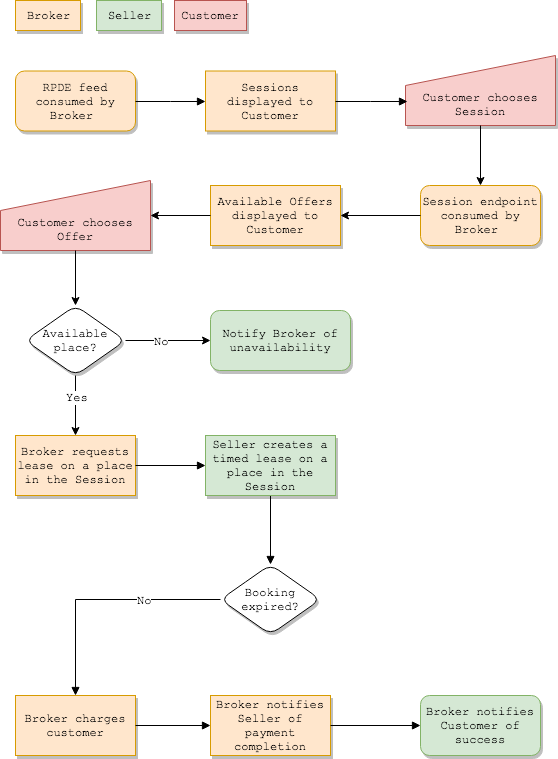
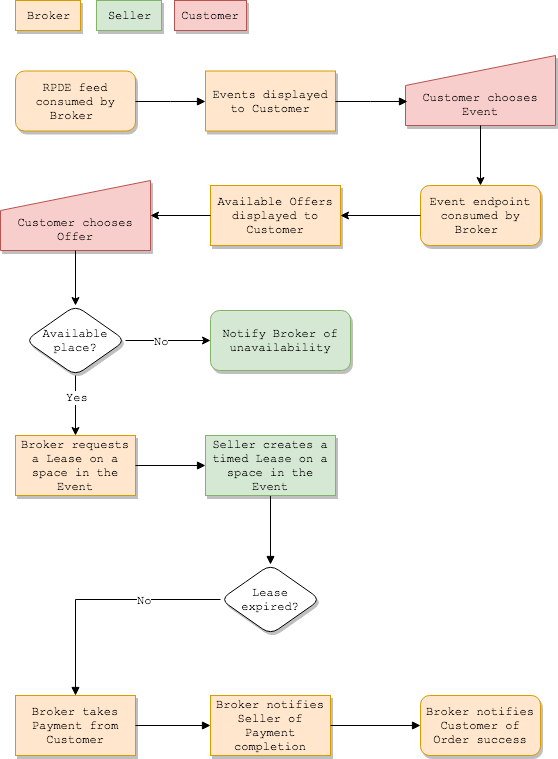
Updates for 0.6

diff --git a/EditorsDraft/index.html b/EditorsDraft/index.html
@@ -3,7 +3,7 @@
 
 <head>
     <meta charset='utf-8' />
-    <title>Open Booking API 0.5</title>
+    <title>Open Booking API 0.6</title>
 
     <script type="text/javascript" class='remove'>
         var respecConfig = {
@@ -58,7 +58,7 @@
                 href: "https://github.com/openactive/open-booking-api/issues/"
             }, {
                 key: "Version",
-                value: "0.5"
+                value: "0.6"
             }],
 
             logos: [{
@@ -253,10 +253,10 @@ pull requests. The source code is available
 on [GitHub](https://github.com/openactive/open-booking-api).
 
         <div class="note">
-This document represents an early Editors Draft of the planned API design. It is 
+This document represents an early Editors Draft of the planned API design. It is
 likely to change between now and its final version. These
-early drafts are intended to help developers provide that feedback by developing 
-proof-of-concept implementations. We encourage developers to explore this API and 
+early drafts are intended to help developers provide that feedback by developing
+proof-of-concept implementations. We encourage developers to explore this API and
 contribute to the development of the specification.
         </div>
 
@@ -534,9 +534,9 @@ as RDPE in an Open Active compliant **booking system**.
 
 ## Step-by-step process description
 
-The 0.5 version of the Booking API supports single items per **order** and
+The 0.5, and higher, versions of the Booking API supports single items per **order** and
 single **payments** per **order**. Future versions of the specification may support
-multiple items and multipart **payments**.
+multiple items and multipart **payments**, 0.6 still does not.
 
 ### Complete transaction
 
@@ -605,7 +605,7 @@ deemed to be cancelled.
 If the **customer** no longer wants to proceed with a particular **offer**, the
 lease for the space in the **event** and the **order** may be cancelled by
 issuing a DELETE request to the specific order endpoint (/orders/123 in the
-example) of the **booking system**. 
+example) of the **booking system**.
 
 The **booking system** SHOULD release the
 space in the **event** and delete the underlying resource. Any subsequent
@@ -616,7 +616,7 @@ requests to this resource should result in a 404 response.
 If the lease has expired during the **payment** process, the **broker** SHOULD
 check whether the **event** is still bookable and if the selected **offer** is
 still available. If they are, the **broker** should create a new **order** using
-the workflow described above. 
+the workflow described above.
 
 The **booking system** should respond to requests
 for **orders** with an expired lease with a 410 status code with an error
@@ -650,8 +650,26 @@ application/vnd.openactive[.version]+json
 The current media type is:
 
 ```
-application/vnd.openactive.0.5+json
+application/vnd.openactive.0.6+json
 ```
+
+**Brokers specifying a media type without a version, such as:
+
+```
+application/vnd.openactive+json
+```
+
+will recieve data in in the most current format which is 0.6.
+
+If you are building an application as a **broker** and care about the stability
+of the response, or have a client application which is tied to a specific
+version you should always try to use a media type containing the version number.
+
+**Booking systems** are not obliged to support previous versions of the
+specification, and so may not support a specific version number. We anticipate
+that when the Booking API reaches the stability of a 1.0 version that this
+advice may change.
+
 
 ## Response formats
 
@@ -691,7 +709,7 @@ An example is below:
           "target": {
             "type": "EntryPoint",
             "url": "https://example.com/orders",
-            "encodingType": "application/vnd.openactive.v0.5+json",
+            "encodingType": "application/vnd.openactive.v0.6+json",
             "httpMethod": "PATCH"
           }
         }
@@ -719,7 +737,7 @@ Error responses MUST be served using an appropriate HTTP 4XX status code or HTTP
 5XX status code.
 
 All error responses from this API MUST be returned in a JSON-LD format using a
-content type of `application/vnd.openactive.v0.5+json` and include at least one
+content type of `application/vnd.openactive.v0.6+json` and include at least one
 Error object. The error handling has in the Booking API has been modelled
 closely on [[!RFC7807]].
 
@@ -917,6 +935,23 @@ created by a specific **broker** SHOULD NOT be able to be changed by any other
 subsequent requests to an **order** should only be initiated by the **broker**
 which created the **order**.
 
+## Delivery of terms and conditions
+
+The **broker** should make the **customer** aware of and assent to any specific
+Terms and Conditions and Privacy Policy for using their service at the point of
+a **customer** signing up to the service and/or providing their contact details.
+
+Since, during **booking**, the details of the **customer** are provided to the
+**booking system** and the **seller**, the **broker** should inform the
+**customer** of this any implications with resepct to GDPR and any other
+data protection legislation.
+
+Any specific Terms and Conditions for the **offer** being taken, or Terms and
+Conditions relating to the **seller** should be made available via a URL as a
+`termsOfService` property on the **offer**. (https://pending.schema.org/termsOfService)
+
+
+
     </section>
 
     <section class="normative">
@@ -1003,13 +1038,13 @@ are still available before proceeding with booking.
 GET /events/452 HTTP/1.1
 Host: example.com
 Date: Tue, 07 Jun 2018 20:51:35 GMT
-Accept: application/vnd.openactive.v0.5+json
+Accept: application/vnd.openactive.v0.6+json
         </pre>
 
         <pre class="example" title="Event response">
 HTTP/1.1 200 OK
 Date: Tue, 07 Jun 2018 20:51:36 GMT
-Content-Type: application/vnd.openactive.v0.5+json
+Content-Type: application/vnd.openactive.v0.6+json
 Content-Length: ...
 
 
@@ -1112,8 +1147,18 @@ the customer.
 
 ## Creating and updating orders
 
-Booking systems MUST expose an orders endpoint, e.g. `/orders` to allow brokers
-to initiate the booking workflow.
+**Booking systems** MUST expose an **orders** endpoint, e.g. `/orders` to allow
+**brokers** to initiate the **booking** workflow.
+
+**Orders** initiated by a specific **broker** SHOULD only be able to be updated
+by the same **broker**. For the purpose of creating and updating an **order**
+the only reliable mechanism for ensuring that the **broker** is the same across
+requests is via authentication/identification by API keys or Authoriztion
+headers. The **broker** property within the **order** is for information only.
+
+It is the responsibility of the **booking system** to ensure that only the
+**broker** which created the **order** can update, complete and cancel an
+order.
 
 ### Discovering the order endpoint
 
@@ -1142,7 +1187,7 @@ An example is below:
           "target": {
             "type": "EntryPoint",
             "url": "https://example.com/orders",
-            "encodingType": "application/vnd.openactive.v0.5+json",
+            "encodingType": "application/vnd.openactive.v0.6+json",
             "httpMethod": "POST"
           }
         }
@@ -1198,7 +1243,7 @@ process), the `broker` property should contain the details of the end-user
 POST /orders HTTP/1.1
 Host: example.com
 Date: Tue, 07 Jun 2018 20:51:35 GMT
-Accept: application/vnd.openactive.v0.5+json
+Accept: application/vnd.openactive.v0.6+json
 
 {
 	"@context": "https://openactive.io/ns/oa.jsonld",
@@ -1240,7 +1285,7 @@ If successful the server will response with the location of a newly created
         <pre class="example" title="Creating an order - response">
 HTTP/1.1 201 Created
 Date: Tue, 07 Jun 2018 20:51:36 GMT
-Content-Type: application/vnd.openactive.v0.5+json
+Content-Type: application/vnd.openactive.v0.6+json
 Location: /orders/123
 
 {
@@ -1267,7 +1312,7 @@ Location: /orders/123
       "target": {
         "type": "EntryPoint",
         "url": "https://example.com/orders/123",
-        "encodingType": "application/vnd.openactive.v0.5+json",
+        "encodingType": "application/vnd.openactive.v0.6+json",
         "httpMethod": "PATCH"
       }
     }
@@ -1301,13 +1346,13 @@ To get the latest state of an order, perform a GET request on its URI.
 GET /orders/123 HTTP/1.1
 Host: example.com
 Date: Tue, 07 Jun 2018 20:51:35 GMT
-Accept: application/vnd.openactive.v0.5+json
+Accept: application/vnd.openactive.v0.6+json
     </pre>
 
     <pre class="example" title="Viewing an order - response">
 HTTP/1.1 200 Created
 Date: Tue, 07 Jun 2018 20:51:36 GMT
-Content-Type: application/vnd.openactive.v0.5+json
+Content-Type: application/vnd.openactive.v0.6+json
 Content-Length: ...
 
 {
@@ -1363,7 +1408,7 @@ Content-Length: ...
       "target": {
         "type": "EntryPoint",
         "url": "https://example.com/orders/123",
-        "encodingType": "application/vnd.openactive.v0.5+json",
+        "encodingType": "application/vnd.openactive.v0.6+json",
         "httpMethod": "PATCH"
       }
     },
@@ -1373,7 +1418,7 @@ Content-Length: ...
       "target": {
         "type": "EntryPoint",
         "url": "https://example.com/orders/123",
-        "encodingType": "application/vnd.openactive.v0.5+json",
+        "encodingType": "application/vnd.openactive.v0.6+json",
         "httpMethod": "PATCH"
       }
     }
@@ -1411,7 +1456,7 @@ returns a representation of the completed **order** with a 200 status code.
 PATCH /orders/123 HTTP/1.1
 Host: example.com
 Date: Tue, 07 Jun 2018 20:51:35 GMT
-Accept: application/vnd.openactive.v0.5+json
+Accept: application/vnd.openactive.v0.6+json
 
 {
   "type": "Order",
@@ -1434,7 +1479,7 @@ Accept: application/vnd.openactive.v0.5+json
 <pre class="example" title="Completing an order - response">
 HTTP/1.1 200 OK
 Date: Tue, 07 Jun 2018 20:51:36 GMT
-Content-Type: application/vnd.openactive.v0.5+json
+Content-Type: application/vnd.openactive.v0.6+json
 Content-Length: ...
 
 {
@@ -1498,7 +1543,7 @@ Content-Length: ...
 		"target": {
 			"type": "EntryPoint",
 			"url": "https://example.com/orders/535",
-			"encodingType": "application/vnd.openactive.v0.5+json",
+			"encodingType": "application/vnd.openactive.v0.6+json",
 			"httpMethod": "PATCH"
 		}
 	}]
@@ -1506,21 +1551,57 @@ Content-Length: ...
 
     </pre>
 
+## Ordering a place at a free event
+
+Free **events** MUST follow the same workflow as paid **events**. A free
+**event** is technically a free **offer** on a space for an event. There MUST be
+at least one **offer** with a `price` property of "0.00". The `priceCurrency`
+MUST still be defined for data consistency and completeness.
+
+The **order** workflow MUST be followed as described for **offers** with a
+payment. The PATCH to the URL defined in `PayAction` should follow the example
+shown below.
+
+**Orders** for a free place at an **event** are the only current scenario in the
+Booking API specification where a `Payment` object has `paymentMethod` and
+`paymentMethodId` as optional properties.
+
+<pre class="example" title="Completing an free order with a payment of '0.00' - request">
+PATCH /orders/123 HTTP/1.1
+Host: example.com
+Date: Tue, 07 Jun 2018 20:51:35 GMT
+Accept: application/vnd.openactive.v0.6+json
+
+{
+"type": "Order",
+"payments": [
+{
+  "type": "Payment",
+  "totalPaidToProvider": {
+    "type": "MonetaryAmount",
+    "value": "0.00",
+    "currency": "GBP"
+  }
+}
+]
+}
+
+</pre>
 
 ## Leases and the orderLeaseDuration property
 
 If the lease expires during **payment**, the **broker** MAY delete the **order**
 (if the **booking system** has not already done so, returning a response with a
-410 status code). 
+410 status code).
 
 The **broker** should then create a new **order** for the
-**customer** in order to generate a new lease. 
+**customer** in order to generate a new lease.
 
 Before creating a new order, the **broker** MUST check the **event** and **offers** to ensure
 that a space still exists within the **event** and that the **offer** selected
-by the **customer** is still valid. 
+by the **customer** is still valid.
 
-If no space exists or the **offer** is now invalid, the **customer** 
+If no space exists or the **offer** is now invalid, the **customer**
 should be refunded if payment has been taken.
 
 
@@ -1573,8 +1654,22 @@ the space at the **event** has been booked on their behalf.
 
 ### Refunding a customer and cancelling an order
 
-<div class="issue" title="Cancelling an order needs documenting" data-number="47">
-</div>
+Refunds and cancellations are a responsibility of the **broker** who is the
+party in the system in a position to process a refund for the **customer** with
+the third-party payments system.
+
+The **broker** should initiate a refund with the third-party payment provider.
+The refund process should be considered to be asynchronous for the purposes of
+this specification.
+
+After initiating a refund, the **broker** should cancel the
+**order** by submitting a PATCH request to the URL defined in the `CancelAction`
+prescribed in the `potentialAction` property of the **order** response.
+
+The process of cancellation is documented in Section 5.5.2
+
+<!--div class="issue" title="Cancelling an order needs documenting" data-number="47">
+</div -->
 
 ## Customers
 
@@ -1605,11 +1700,11 @@ creation process.
 
 # Future versions of this API
 
-Version 0.5 of the API is a stepping stone towards the 1.0 specification of the
-Booking API. It is not yet feature complete and there are some requirements
-which are not satisfied by version 0.5.
+Version 0.5 of the API was a stepping stone towards the 1.0 specification of the
+Booking API. Neither it, or 0.6, are yet feature complete and there are some requirements
+which are not satisfied by this version.
 
-Some of the patterns within version 0.5, for example the PATCHing of an order
+Some of the patterns within version 0.5 and higher, for example the PATCHing of an order
 resource to provide a payment and usng PATCH to change the status of an `orderItem` to
 cancel an order provide the groundwork for known requirements such as multiple
 order items (shopping carts), cancellation of individual order items and also
@@ -1623,7 +1718,7 @@ The new models for Payment and for Error enhance the Open Active model
 specification to make it more transactional when used as part of the Booking
 API.
 
-The currently known requirements not satisfied in version 0.5 are:
+The currently known requirements not satisfied in version 0.6 are:
 
 - multiple part orders
 - supporting multiple payments
